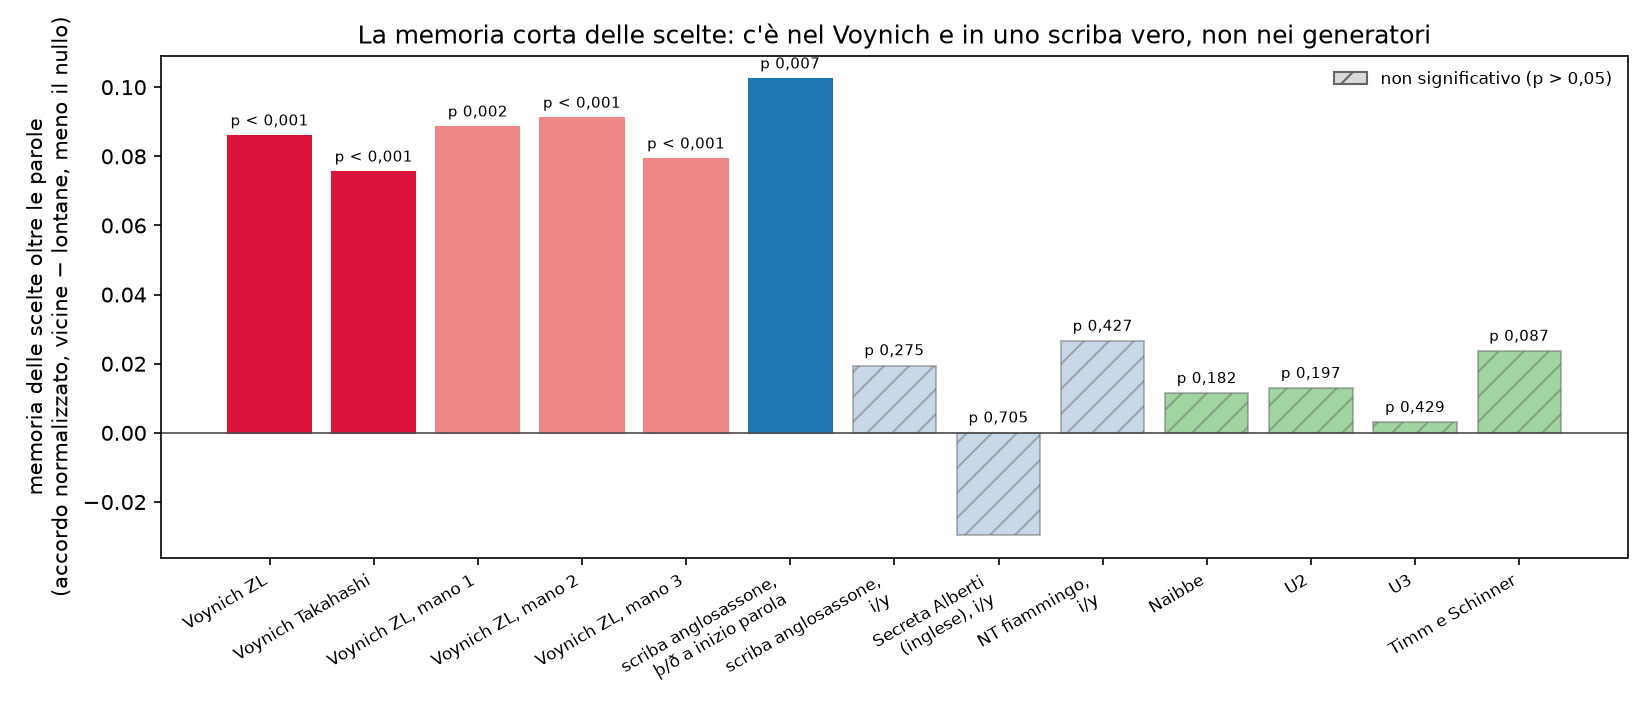
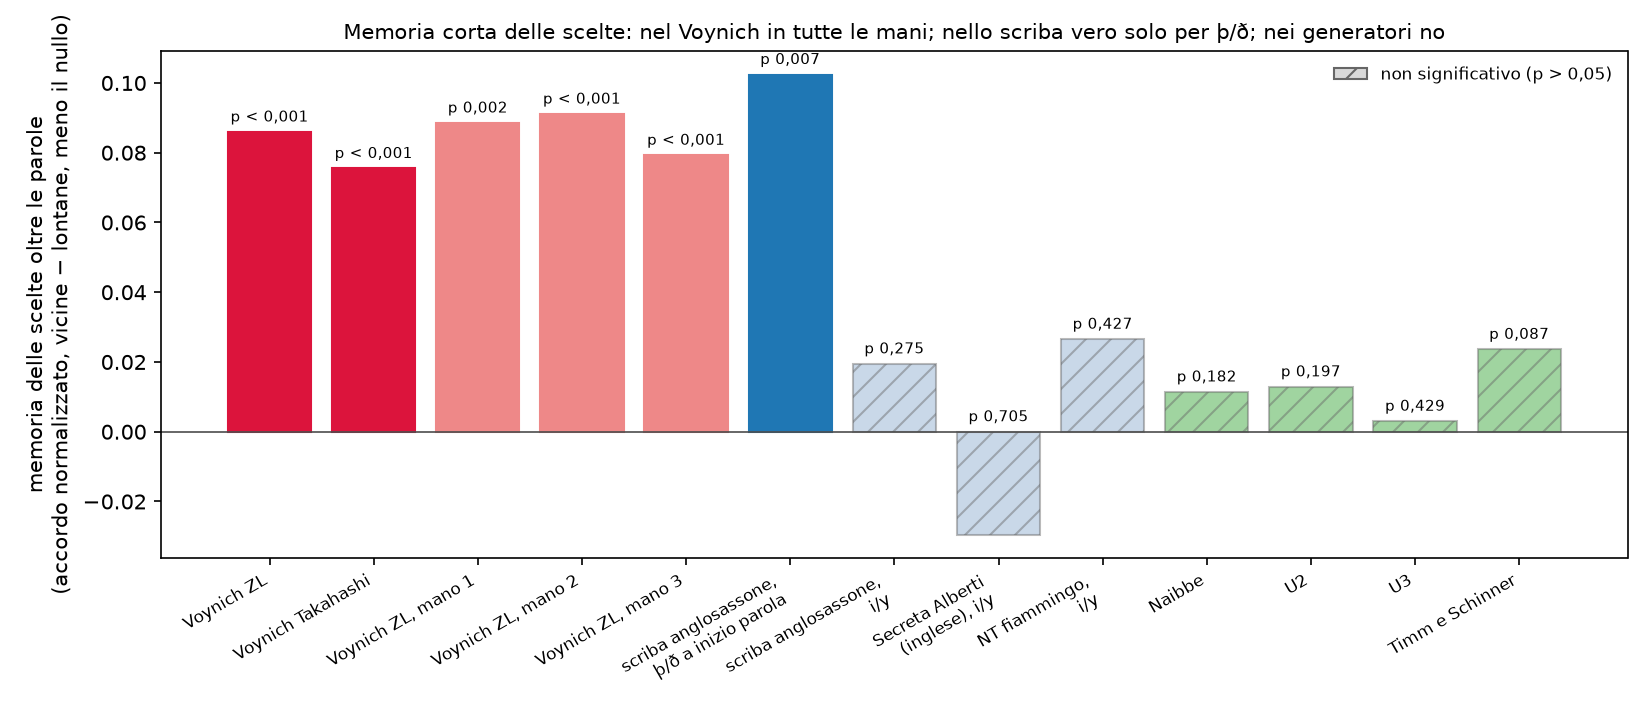
Figura memoria_scribi.png: titolo corretto (scriba vero solo per þ/ð)

diff --git a/strumenti/figura_memoria_scribi.py b/strumenti/figura_memoria_scribi.py
@@ -44,7 +44,7 @@ def main():
     ax.set_xticks(xs)
     ax.set_xticklabels([x[0] for x in voce], rotation=30, ha='right', fontsize=8)
     ax.set_ylabel('memoria delle scelte oltre le parole\n(accordo normalizzato, vicine − lontane, meno il nullo)')
-    ax.set_title('La memoria corta delle scelte: c\'è nel Voynich e in uno scriba vero, non nei generatori')
+    ax.set_title('Memoria corta delle scelte: nel Voynich in tutte le mani; nello scriba vero solo per þ/ð; nei generatori no', fontsize=10)
     fig.tight_layout()
     os.makedirs(os.path.join(R, 'figure'), exist_ok=True)
     out = os.path.join(R, 'figure', 'memoria_scribi.png')
